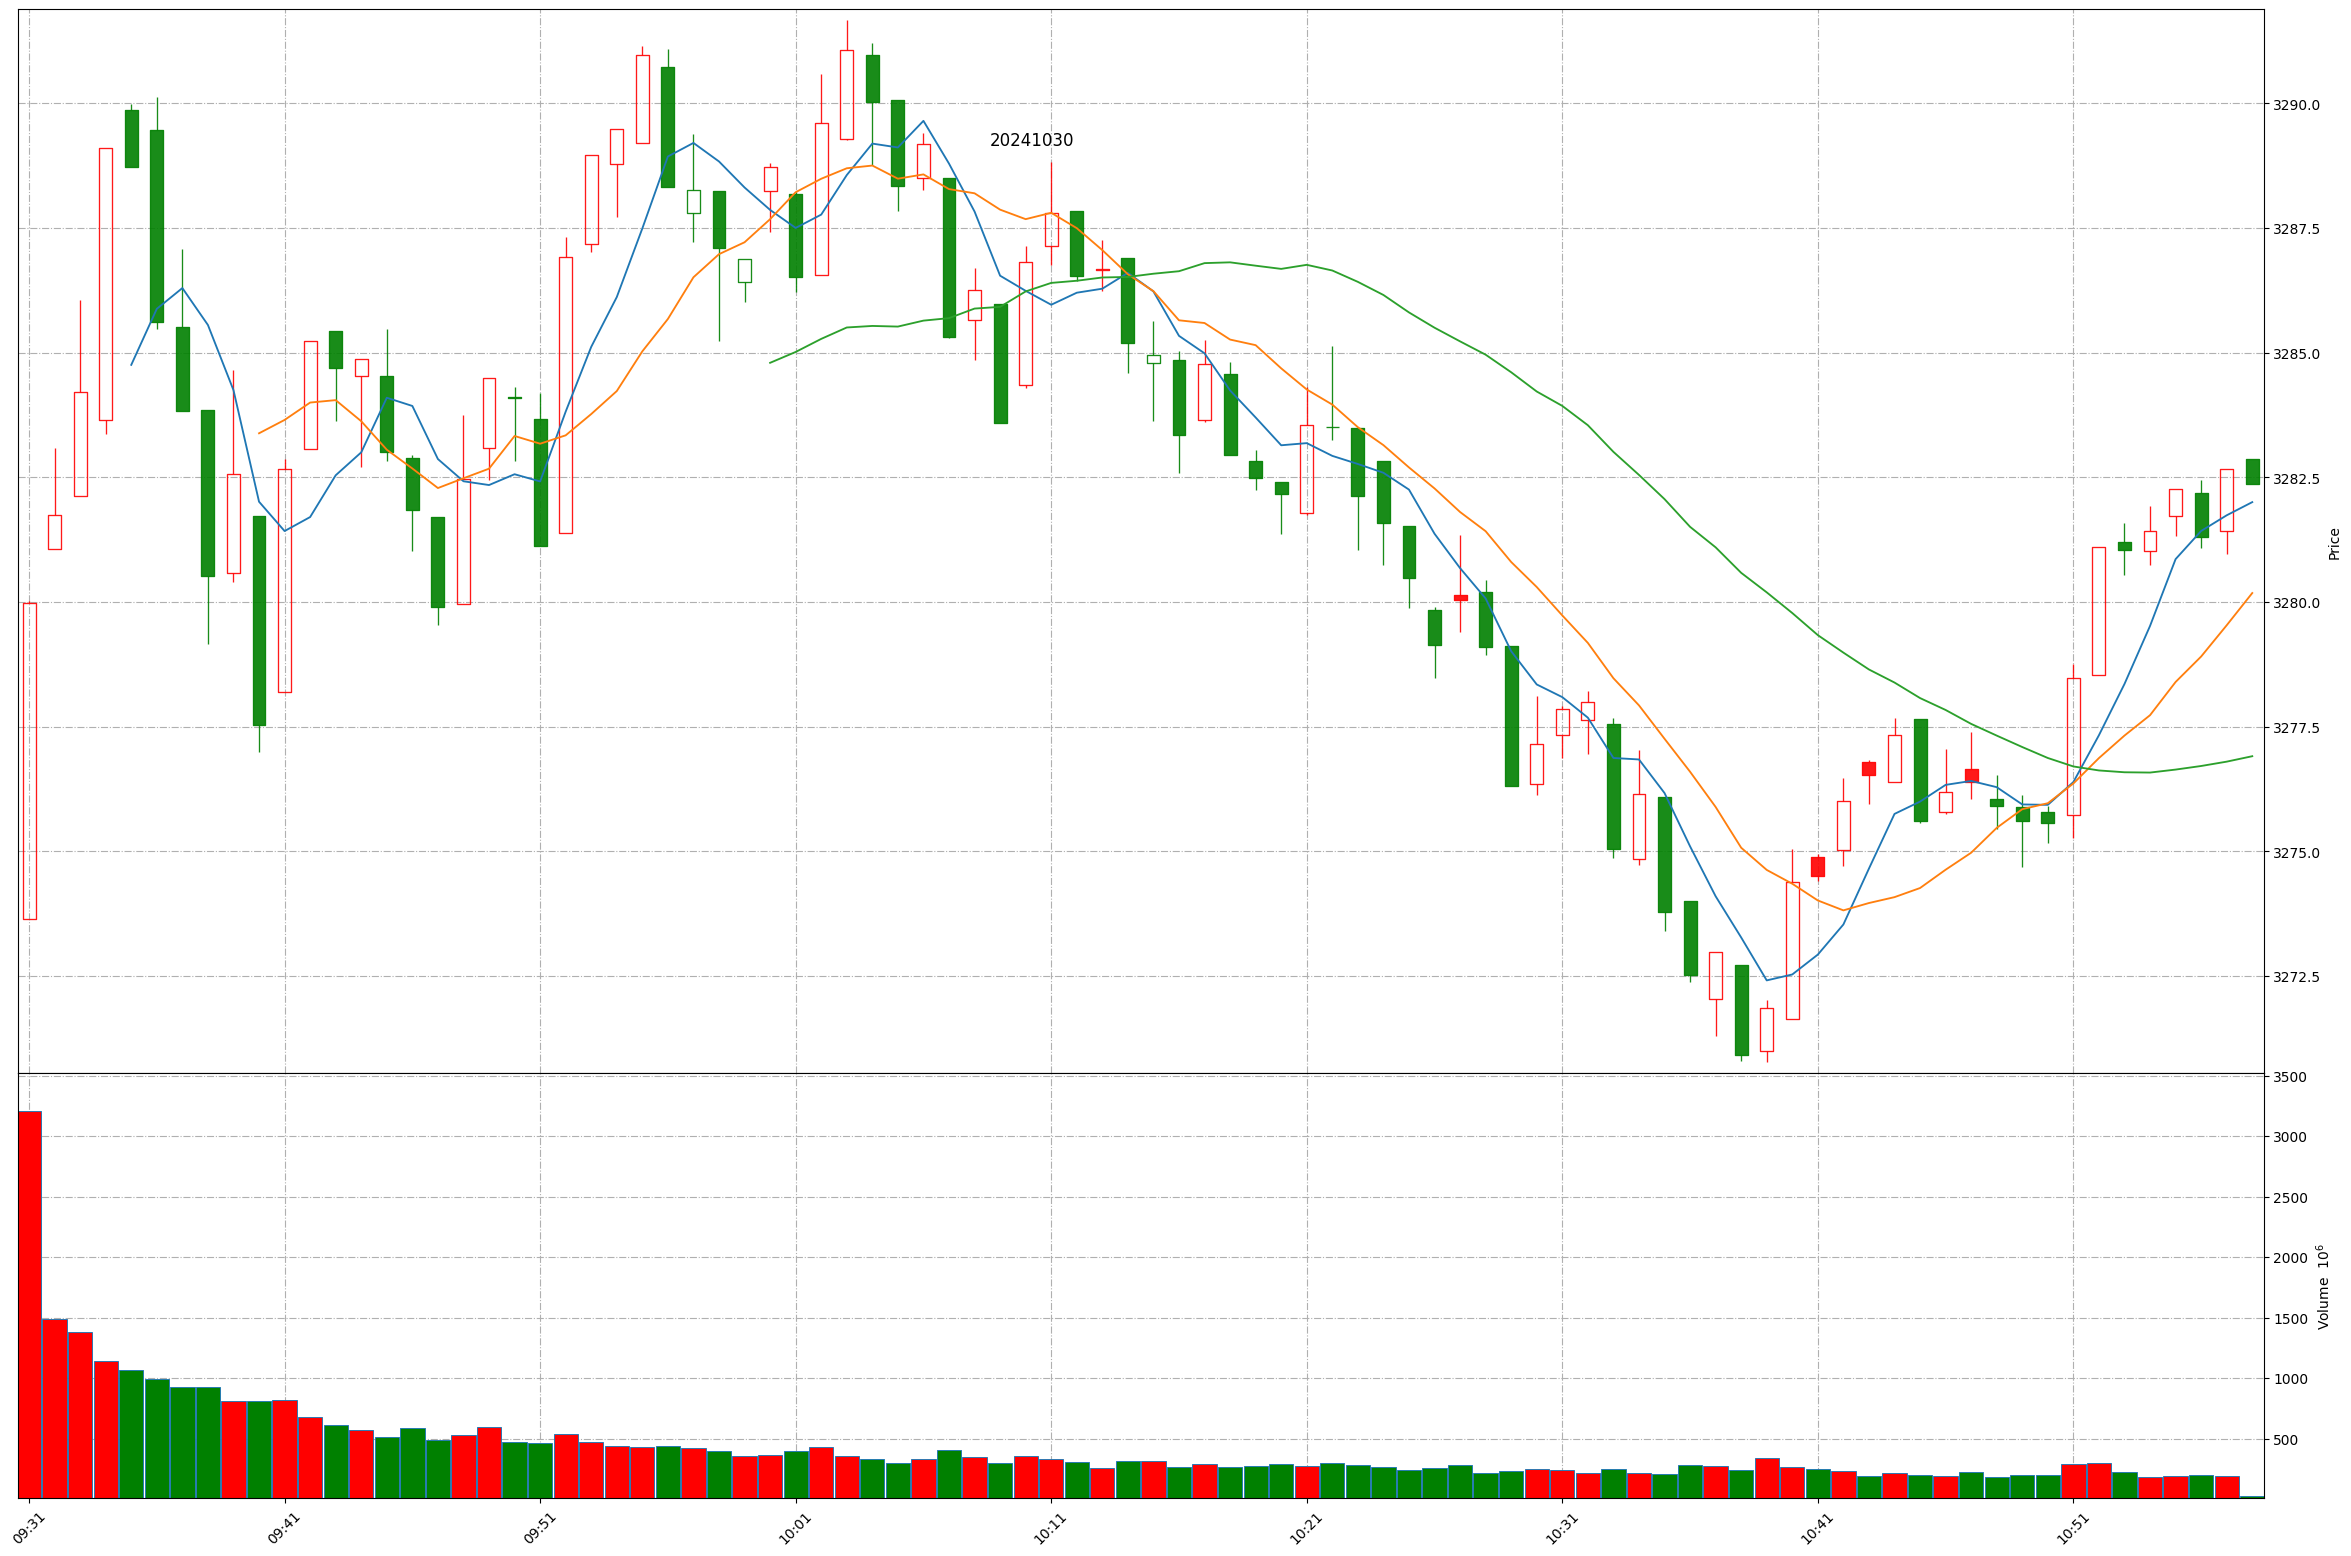
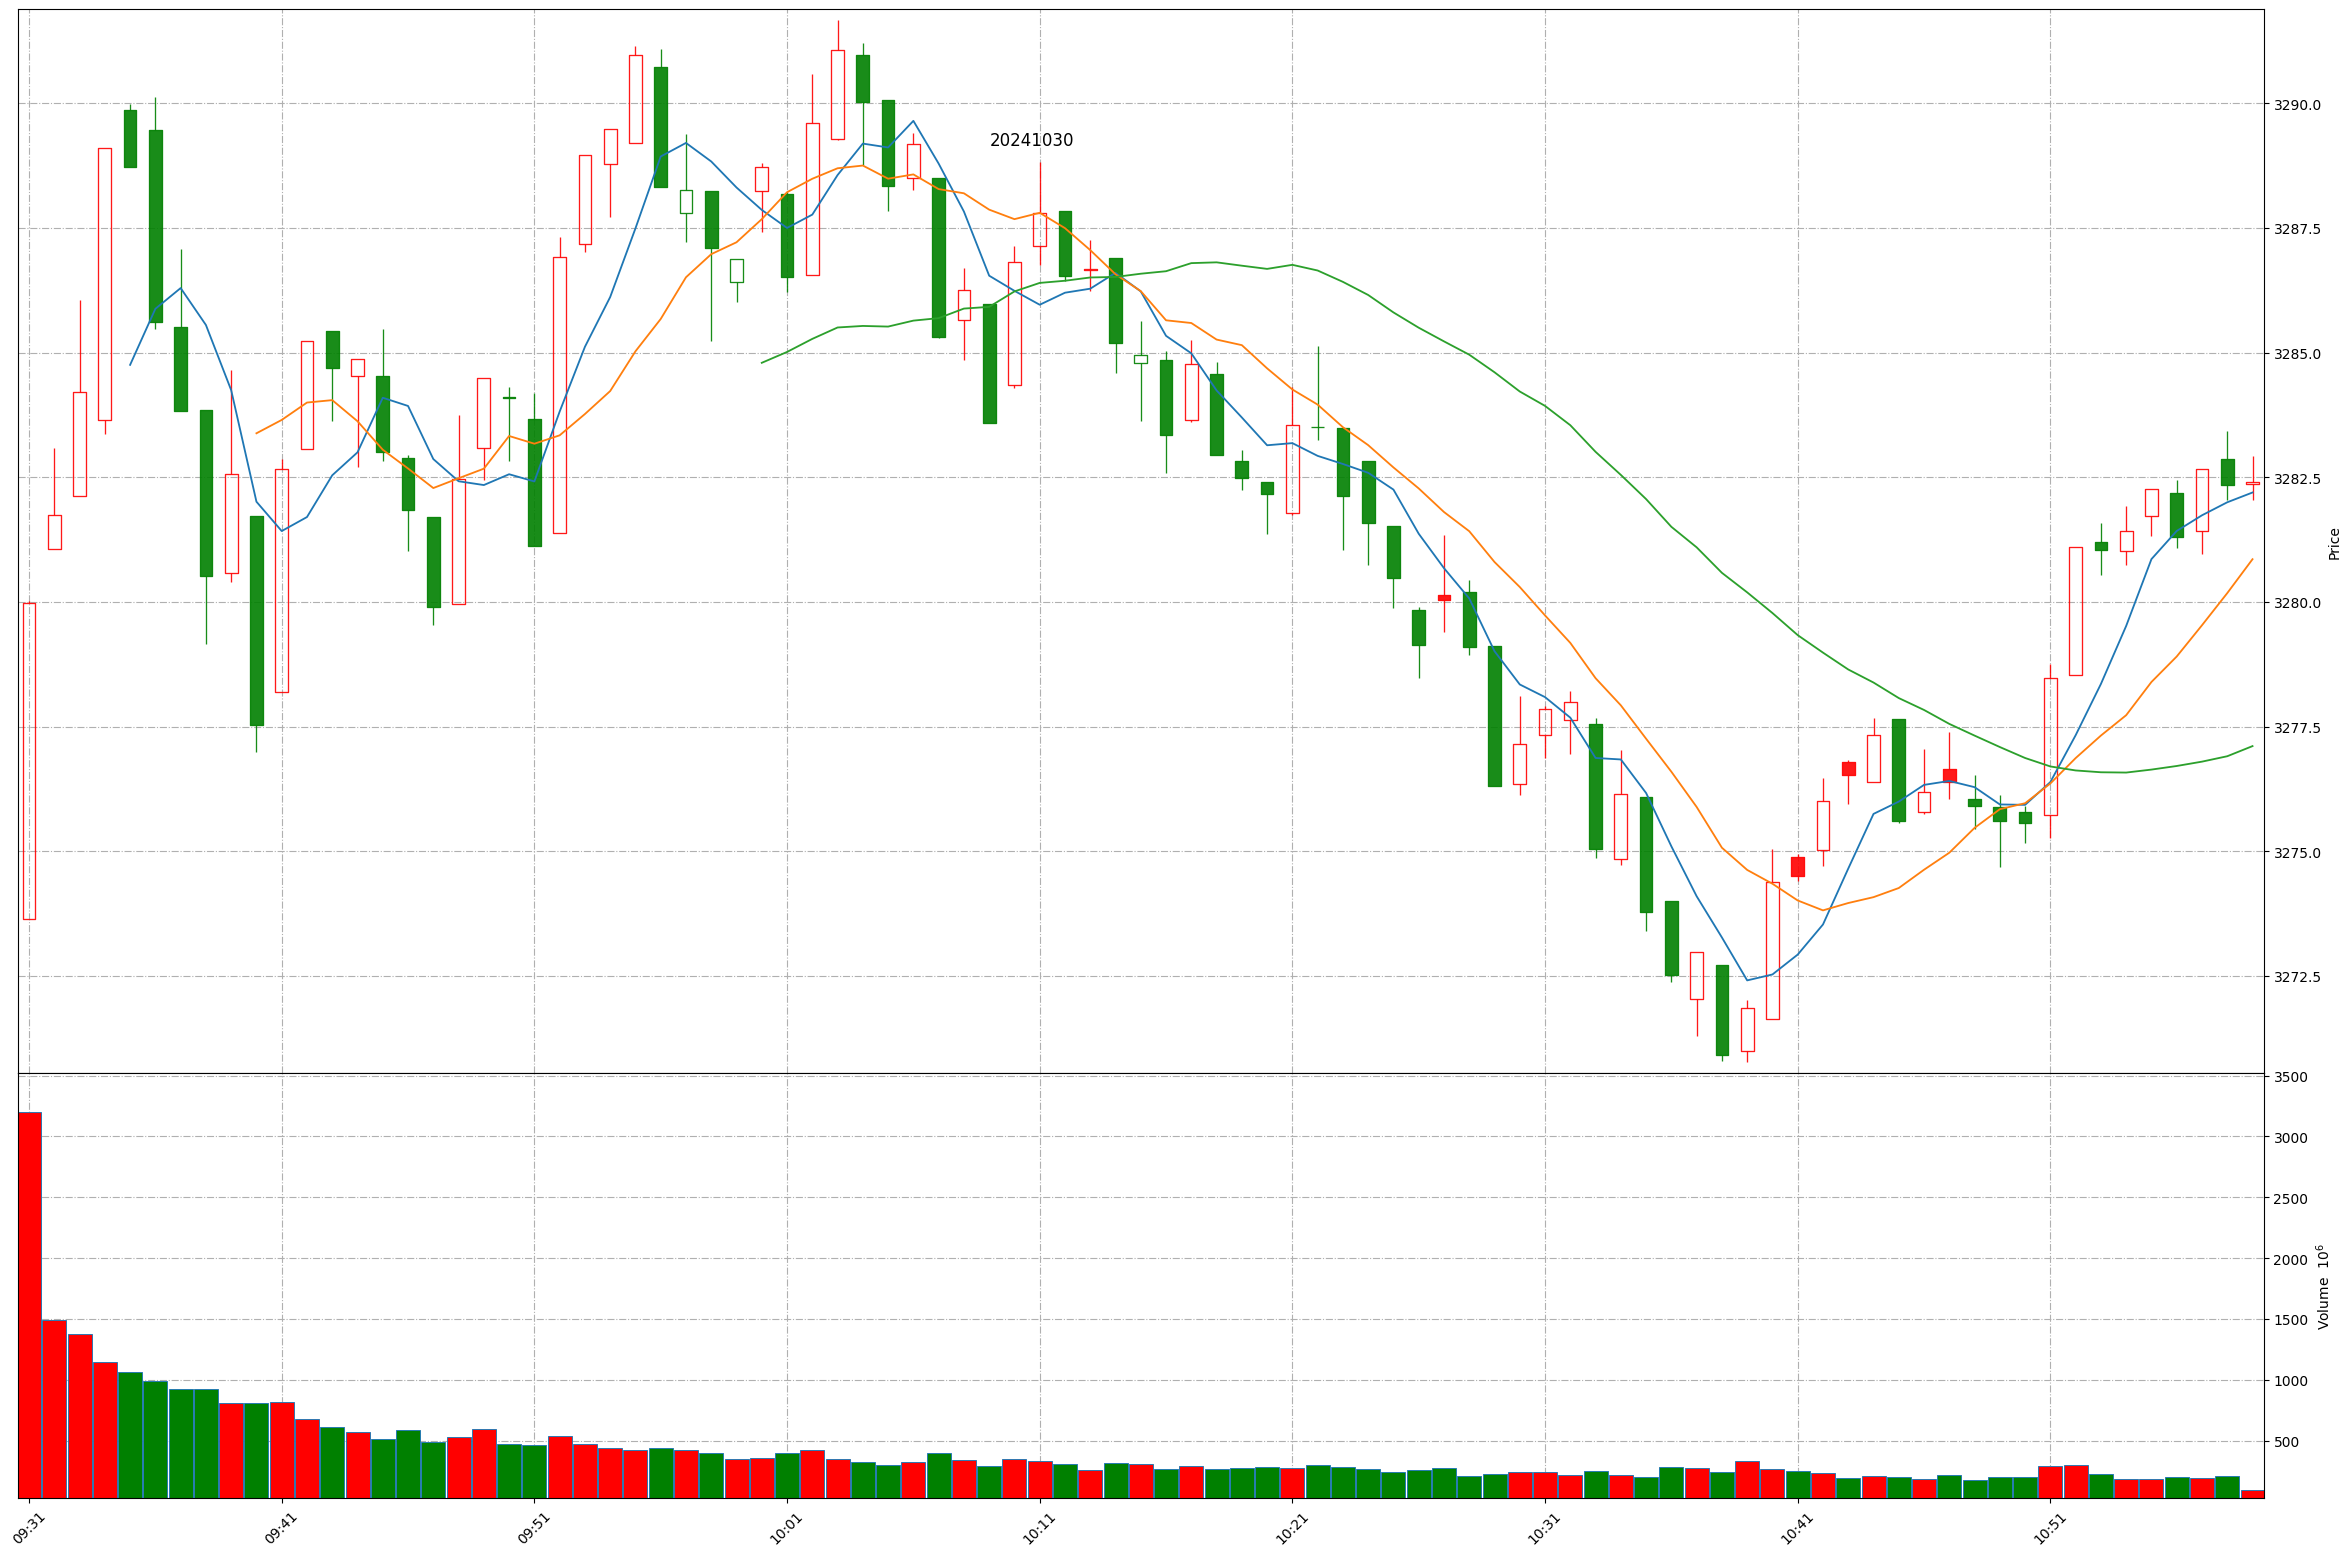
Github action update at 2024-10-30 10:58:45.

diff --git a/README.md b/README.md
@@ -1,11 +1,11 @@
 
 # Daily-A-share-market-quotes 每日 A 股指数（5min 更新）- 20241030
 
-### 上证指数 20241030 10:57
+### 上证指数 20241030 10:58
 ![](./fig/2024/10/20241030-sh000001.png)
 
-### 深证成指 20241030 10:57
+### 深证成指 20241030 10:58
 ![](./fig/2024/10/20241030-sz399001.png)
 
-### 北证50 20241030 10:57
+### 北证50 20241030 10:58
 ![](./fig/2024/10/20241030-bj899050.png)
